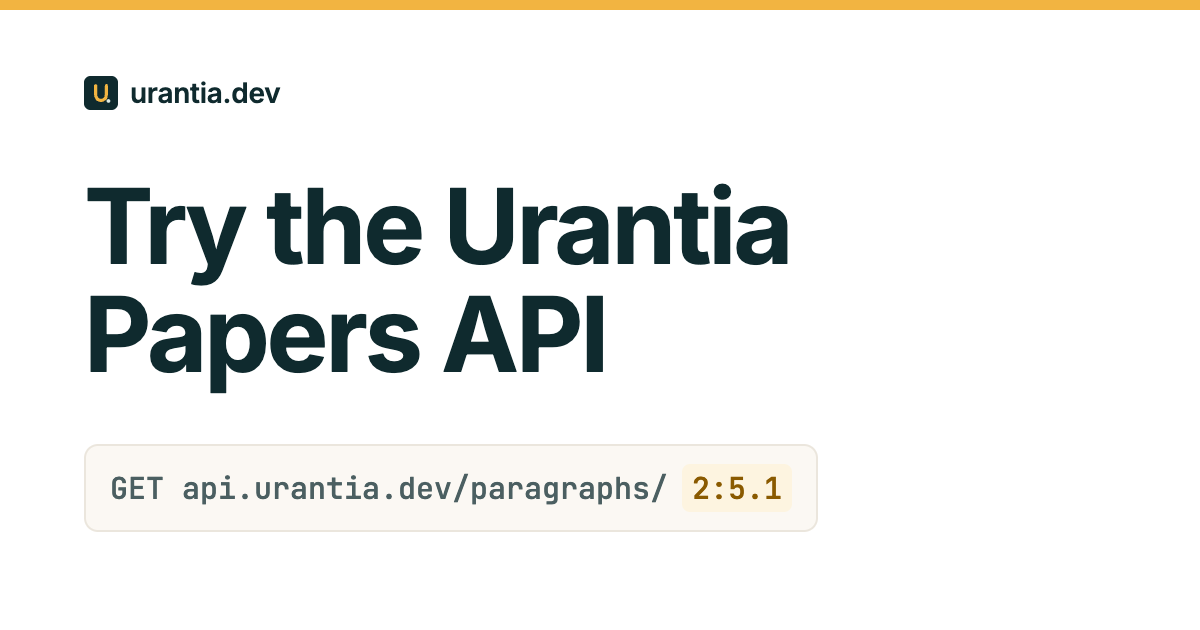
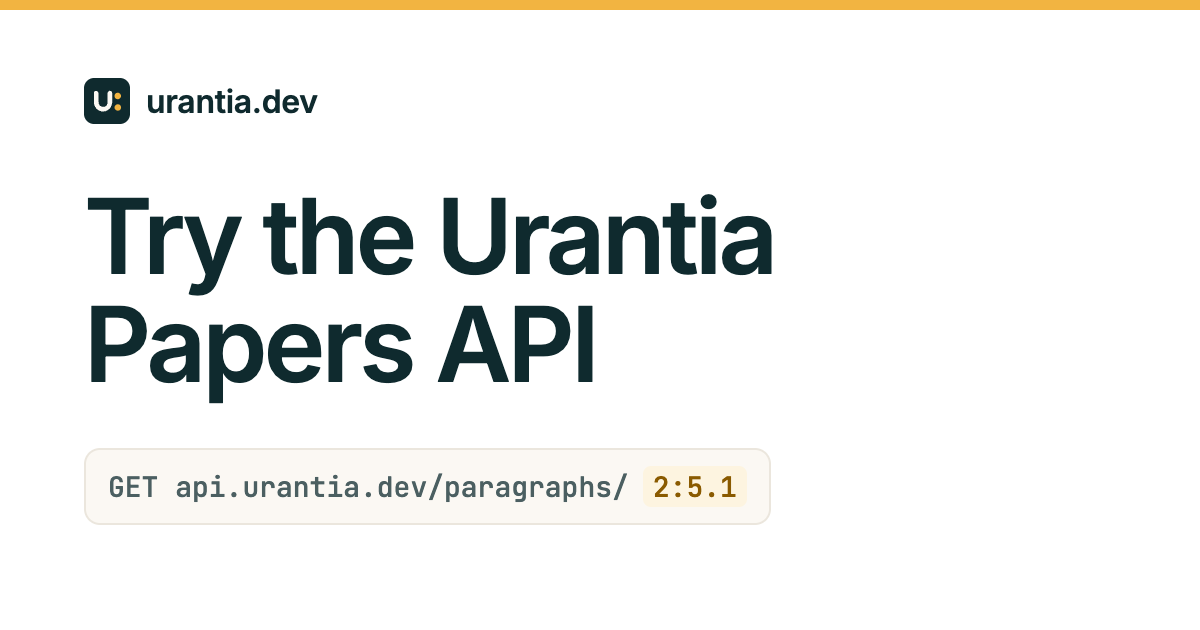
New mark: a lowercase u and the reference colon
The favicon flips to an amber square in dark mode so it keeps its shape on dark tabs.

Changed region(s): [[0.0617, 0.2714, 0.6783, 0.6333], [0.0925, 0.6937, 0.6783, 0.8444], [0.0617, 0.1206, 0.2775, 0.2111]]

diff --git a/src/components/Mark.tsx b/src/components/Mark.tsx
@@ -1,10 +1,11 @@
-// The urantia.dev mark: teal rounded square, amber U, light dot. Same as the favicon.
+// The urantia.dev mark: a lowercase u and the amber colon of every reference (2:5.1). Same as the favicon.
 export function Mark({ className = "h-6 w-6" }: { className?: string }) {
   return (
     <svg className={className} viewBox="0 0 64 64" aria-hidden="true">
-      <rect width="64" height="64" rx="12" fill="#0f2a2e" />
-      <path d="M22 18v18a10 10 0 0 0 20 0V18" fill="none" stroke="#f2b441" strokeWidth="6" strokeLinecap="round" />
-      <circle cx="46" cy="47" r="3.5" fill="#ddebe6" />
+      <rect width="64" height="64" rx="14" fill="#0f2a2e" />
+      <path d="M17 21v13a9.5 9.5 0 0 0 19 0V21" fill="none" stroke="#fbf8f3" strokeWidth="6.5" strokeLinecap="round" />
+      <circle cx="47" cy="25" r="4.5" fill="#f2b441" />
+      <circle cx="47" cy="41" r="4.5" fill="#f2b441" />
     </svg>
   );
 }
